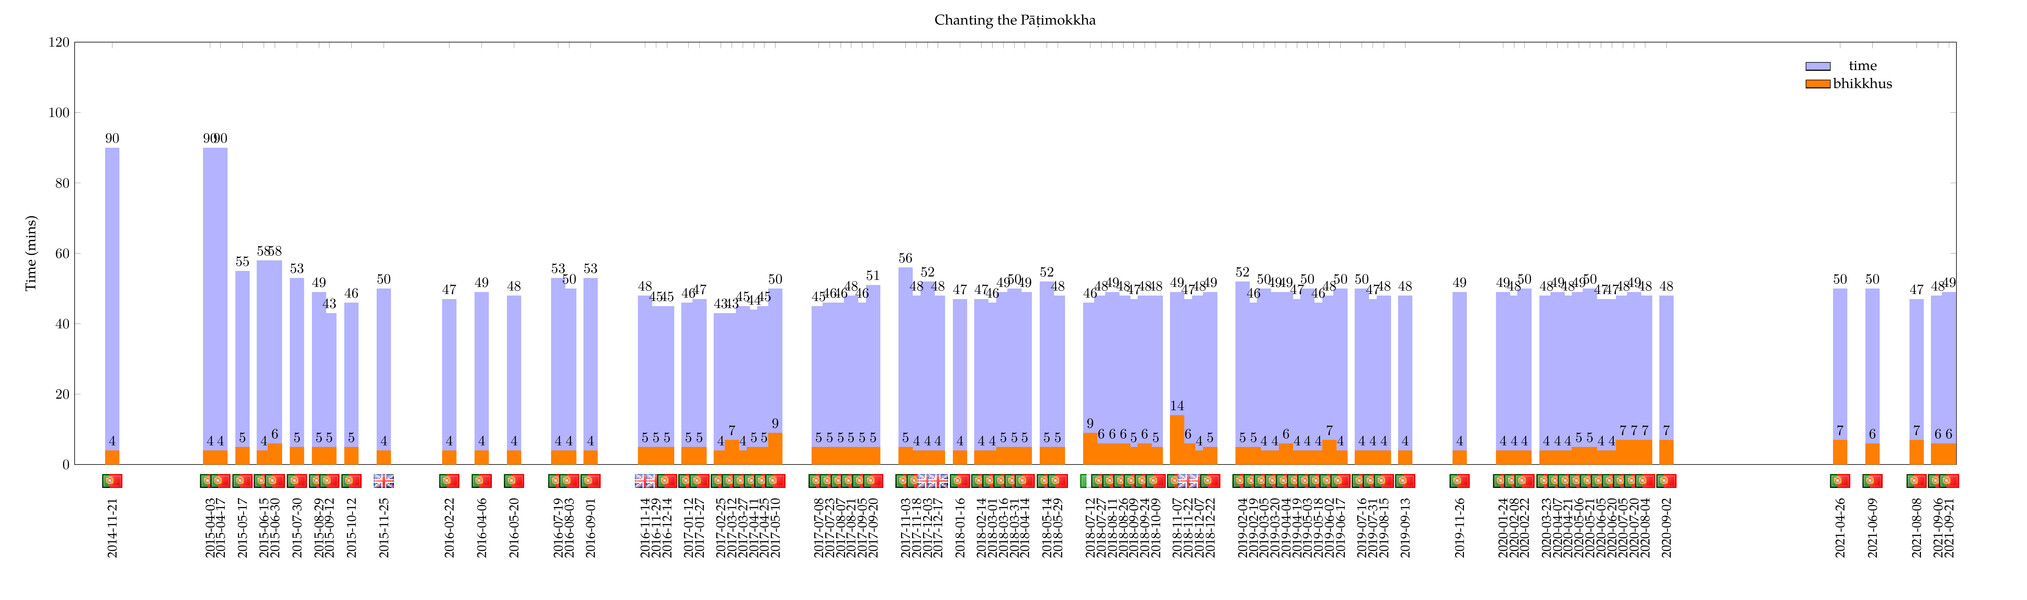
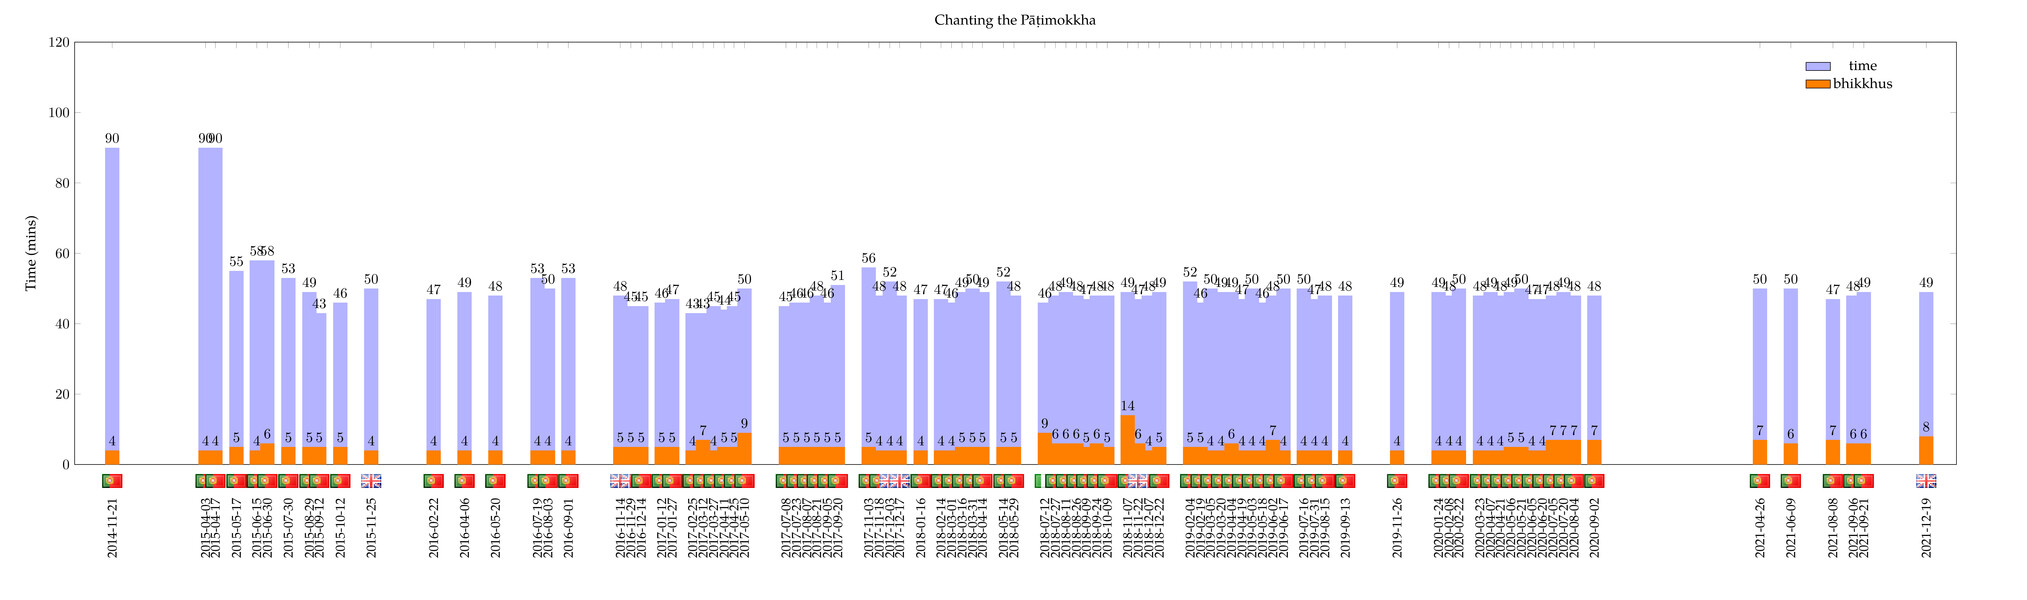
upd

Changed region(s): [[0.0932, 0.21, 0.9635, 0.93]]

diff --git a/src/patimokkha-chanting-chart.tex b/src/patimokkha-chanting-chart.tex
@@ -58,7 +58,7 @@
     ylabel=Time (mins),
     xtick=data,
     xmin=2014-11-20,
-    xmax=2021-10-01,
+    xmax=2022-01-31,
     enlarge x limits={rel=0.02,lower},
     xticklabel style={yshift=-20pt,rotate=90,anchor=east,font=\small},
     xticklabel={\year-\month-\day},
@@ -178,6 +178,7 @@
   \node [anchor=south, yshift=-20pt] at (axis cs:2021-08-08,0) {\includegraphics[width=5mm]{pt}};
   \node [anchor=south, yshift=-20pt] at (axis cs:2021-09-06,0) {\includegraphics[width=5mm]{pt}};
   \node [anchor=south, yshift=-20pt] at (axis cs:2021-09-21,0) {\includegraphics[width=5mm]{pt}};
+  \node [anchor=south, yshift=-20pt] at (axis cs:2021-12-19,0) {\includegraphics[width=5mm]{gb}};
 
 \end{axis}
 \end{tikzpicture}
